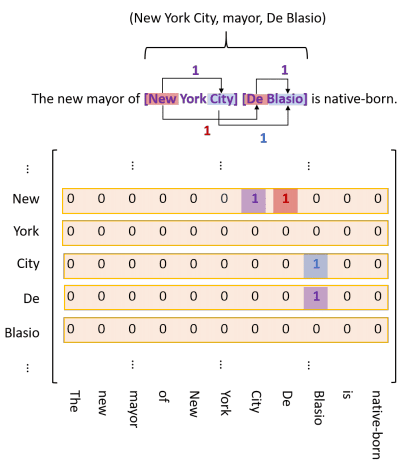
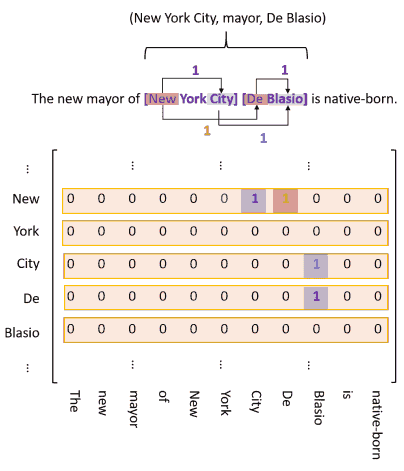
TPLinker-NER

diff --git a/_posts/2021-07-29-tplinker.md b/_posts/2021-07-29-tplinker.md
@@ -1,22 +1,22 @@
 ---
-title: "论文笔记: TPLinker 实体关系抽取"
+title: "论文笔记: TPLinker 实体关系抽取以及 NER 变种"
 categories: 
 - Machine Learning
 tags: NLP
-updated: 
+updated: 2021-12-08
 comments: true
 mathjax: true
 ---
 
-- Wang, Y., Yu, B., Zhang, Y., Liu, T., Zhu, H., & Sun, L. (2020). [Tplinker: Single-stage joint extraction of entities and relations through token pair linking](https://arxiv.org/abs/2010.13415). *arXiv preprint arXiv:2010.13415*.
+COLING 2020 的文章
 
-有作者的 [开源 PyTorch 实现](https://github.com/131250208/TPlinker-joint-extraction).
+- Wang, Y., Yu, B., Zhang, Y., Liu, T., Zhu, H., & Sun, L. (2020). [Tplinker: Single-stage joint extraction of entities and relations through token pair linking](https://arxiv.org/abs/2010.13415). *arXiv preprint arXiv:2010.13415*. [[Code]](https://github.com/131250208/TPlinker-joint-extraction)
 
 <!-- more -->
 
 ## 主要解决的问题: 两阶段方法中训练和推理阶段的数据分布不一致
 
-实体关系抽取传统方法先抽取实体, 再预测实体对的关系 (分类问题). 这种 **两阶段** 方法无法考虑两个子任务之间的联系. 因此引入联合 (joint) 抽取, 即同时抽取实体和关系. 此外还要解决实体重叠问题 (同一个实体出现在多个三元组中).
+实体关系抽取传统方法先抽取实体, 再预测实体对的关系 (分类问题). 这种两阶段方法无法考虑两个子任务之间的联系. 因此引入联合 (joint) 抽取, 即同时抽取实体和关系. 此外还要解决实体重叠问题 (同一个实体出现在多个三元组中).
 
 ![](https://shiina18.github.io/assets/posts/images/20210729141153304_12040.png)
 
@@ -25,19 +25,25 @@ mathjax: true
 - 基于解码器的模型使用编码器-解码器结构, 解码器每次抽取一个词或一个元组.
 - 基于分解的模型先识别候选主语实体, 然后标注宾语实体和关系.
 
-这些方法有共同的问题: **曝光偏差** (exposure bias). 编码器-解码器在训练阶段用了真实数据的 tokens, 但推理阶段用的是模型自己生成的 tokens. 因此训练和推理阶段用的数据来自不同分布. 基于分解的模型也有类似问题.
+这些方法有共同的问题: 曝光偏差 (exposure bias). 编码器-解码器在训练阶段用了真实数据的 tokens, 但推理阶段用的是模型自己生成的 tokens. 因此训练和推理阶段用的数据来自不同分布. 基于分解的模型也有类似问题.
 
 ## 方法
 
-TPLinker 是一个 **单阶段** 方法, 将联合抽取任务转化为 **T**oken **P**air **Link**ing 问题. 
+TPLinker 是一个单阶段方法, 将联合抽取任务转化为 **T**oken **P**air **Link**ing 问题. 
 
-### 序列标注
+TPLinker 其实非常简单粗暴, 标题就概括了它的方法: token pairs 的分类问题. 长度为 $n$ tokens 的序列中有顺序地取两个 tokens, 记为 $p_1$ 和 $p_2$, 称为一个 token pair, 一共有 $n(n+1)$ 个 token pairs. 对于每个 token pair 和每个关系 $r$, TPLinker 做三个独立的分类任务:  
 
-给定一个句子, 两个位置 $p_1$ 和 $p_2$, 和一个关系 $r$, TPLinker 回答三个判断题:  
-
-- $p_1$ 和 $p_2$ 是否分别为同一个实体的开始和结束位置? 紫色: entity head to entity tail (EH-to-ET)
+- $p_1$ 和 $p_2$ 是否分别为同一个实体的开始和结束位置? 紫色: entity head to entity tail (EH-to-ET) 这个问题和关系 $r$ 无关.
 - $p_1$ 和 $p_2$ 是否分别为关系是 $r$ 的两个实体的开始位置? 红色: subject head to object head (SH-to-OH)
 - $p_1$ 和 $p_2$ 是否分别为关系是 $r$ 的两个实体的结束位置? 蓝色: subject tail to object tail (ST-to-OT)
+
+他把所有的情况枚举了一遍, 当然理念上可以解决实体对重叠问题.
+
+## 无关紧要的细节
+
+### 标注的实现
+
+极其简单且无关紧要的细节, 把上述过程用矩阵表示, 其中 $n(n+1)$ 个 token pairs 可以用 $n(n+1)/2$ 个数表示. 整个映射关系都是一对一的, 所以编解码显然, 所谓的 handshaking tagger 只能说是强行取个名字.
 
 在矩阵中用 1 存储上述标签, 不同标签用不同矩阵. 
 
@@ -54,6 +60,8 @@ TPLinker 是一个 **单阶段** 方法, 将联合抽取任务转化为 **T**oke
 > It seems that our tagging scheme is extremely inefficient because the length of the tagging sequence increases in a square number with increasing sentence length. Fortunately, our experiment reveals that by utilizing a lightweight tagging model on the top of the encoder, TPLinker can achieve competitive running efficiency compared with the state-of-the-art model, since the encoder is shared by all taggers (see Figure 3) and only needs to generate $n$ token representations for once.
 
 ### 模型
+
+分类问题的标准流程.
 
 对一个长度为 $n$ 的句子 $[w_1, \dots, w_n]$, 先用 encoder 把每个 token $w_i$ 映射为向量 $c_i$, 然后用通常方法 (拼接输入向量, 线性变换后接激活函数) 生成 token pair $(w_i, w_j)$ 的表示
 
@@ -83,9 +91,23 @@ $$
 \operatorname{link}(w_i, w_j, t) = \operatorname{arg\,max}_l \mathbb P(Y^{(t)}_{i, j} = l).
 $$
 
+## 具体实现的细节和效果
+
+可以看到他把长度为 $n$ 的序列展成了 $O(n^2)$ 的东西, 所以长度不能太大, 作者推荐不超过 100. 另外可以看到, 展开后这么长的序列里, 非 0 值很少, 矩阵非常稀疏.
+
+对于超过最大长度的序列, 他的处理是, 用 sliding window 截取. 比如最大长度为 100, 每次划窗移动距离为 20, 则先取头 100 个 tokens 作为一个序列, 再取第 21~120 个 tokens 作为新的序列 (有关的实体关系对也要相应处理), 以此类推.
+
+- [加速收敛的 trick](https://github.com/131250208/TPlinker-joint-extraction/issues/28): loss 先给实体识别更高的权重, 之后逐渐让其权重和关系分类持平. 经验上实体识别任务更简单, 并且对关系分类任务有一定指导作用, 可以加速收敛.
+- [构建数据集](https://github.com/131250208/TPlinker-joint-extraction/issues/29): 如果一个实体出现了复数次, 那么全部标注出来比较好.
+- 有若干效果不好的报告 (f1 指标): [中文数据集上的效果探讨](https://github.com/131250208/TPlinker-joint-extraction/issues/39) 0.6775, [evaluating other datasets](https://github.com/131250208/TPlinker-joint-extraction/issues/8) 0.6485, [自定义数据集上关系识别的效果很差](https://github.com/131250208/TPlinker-joint-extraction/issues/61), 我自己的数据集上大多收敛为 0.65 出头, 不到 0.7. 经验上 6k steps 后就拟合地差不多了.
+- [代码很乱](https://github.com/131250208/TPlinker-joint-extraction/issues/3), 一堆 jupyter notebooks, 甚至还有没有用的文件.
+
+## 衍生: TPLinker-NER
+
+由于 TPLinker 做的是 token pairs 的分类, 显然它也可以做实体识别. 有人基于这个想法开源了 [TPLinker-NER](https://github.com/gaohongkui/TPLinker-NER), 并对中文数据集 [CLUENER2020](https://github.com/CLUEbenchmark/CLUENER2020) 做了验证, 效果还行. 改进点在于, TPLinker 是对每个 token pair 独立地做了 $2R+1$ 个分类问题, TPLinker-NER 只做一个多标签分类问题, 具体参考 [苏剑林的推广](https://kexue.fm/archives/7359), 也就是把 $n$ 选 1 的分类问题变成了 $n$ 选 $k$ 的分类问题.
+
 ## Further reading
 
 - 苏剑林. (2020, Jan 3). [用 bert4keras 做三元组抽取](https://kexue.fm/archives/7161) [Blog post]. *科学空间*.
 - 苏剑林. (2021, May 1). [GlobalPointer: 用统一的方式处理嵌套和非嵌套 NER](https://kexue.fm/archives/8373) [Blog post]. *科学空间*.
-
-还没读: [陈丹琦用 pipeline 方式刷新关系抽取 SOTA](https://zhuanlan.zhihu.com/p/274938894)
+- JayJay. (2021, Jan 18). [陈丹琦用 pipeline 方式刷新关系抽取 SOTA](https://zhuanlan.zhihu.com/p/274938894). *知乎*.

diff --git a/sitemap/index.md b/sitemap/index.md
@@ -98,7 +98,7 @@ mathjax: true
 - 2021-12-06 [非监督数据增强 (UDA)](https://shiina18.github.io/machine%20learning/2021/12/06/uda)
 - 2021-11-28 [图神经网络简介](https://shiina18.github.io/machine%20learning/2021/11/28/gnn) <font color="lightgrey">(2021-12-04 updated)</font>
 - 2021-08-05 [知识蒸馏](https://shiina18.github.io/machine%20learning/2021/08/05/knowledge-distill)
-- 2021-07-29 `NLP` [论文笔记: TPLinker 实体关系抽取](https://shiina18.github.io/machine%20learning/2021/07/29/tplinker)
+- 2021-07-29 `NLP` [论文笔记: TPLinker 实体关系抽取以及 NER 变种](https://shiina18.github.io/machine%20learning/2021/07/29/tplinker) <font color="lightgrey">(2021-12-08 updated)</font>
 - 2021-05-19 `NLP` [Word2Vec 简短回顾](https://shiina18.github.io/machine%20learning/2021/05/19/w2v)
 - 2020-12-24 [机器学习杂录](https://shiina18.github.io/machine%20learning/2020/12/24/ml-misc) <font color="lightgrey">(2021-08-16 updated)</font>
 - 2020-09-03 `Time Series` [Deep Learning for Time Series Probabilistic Forecasting](https://shiina18.github.io/machine%20learning/2020/09/03/dl-ts)
